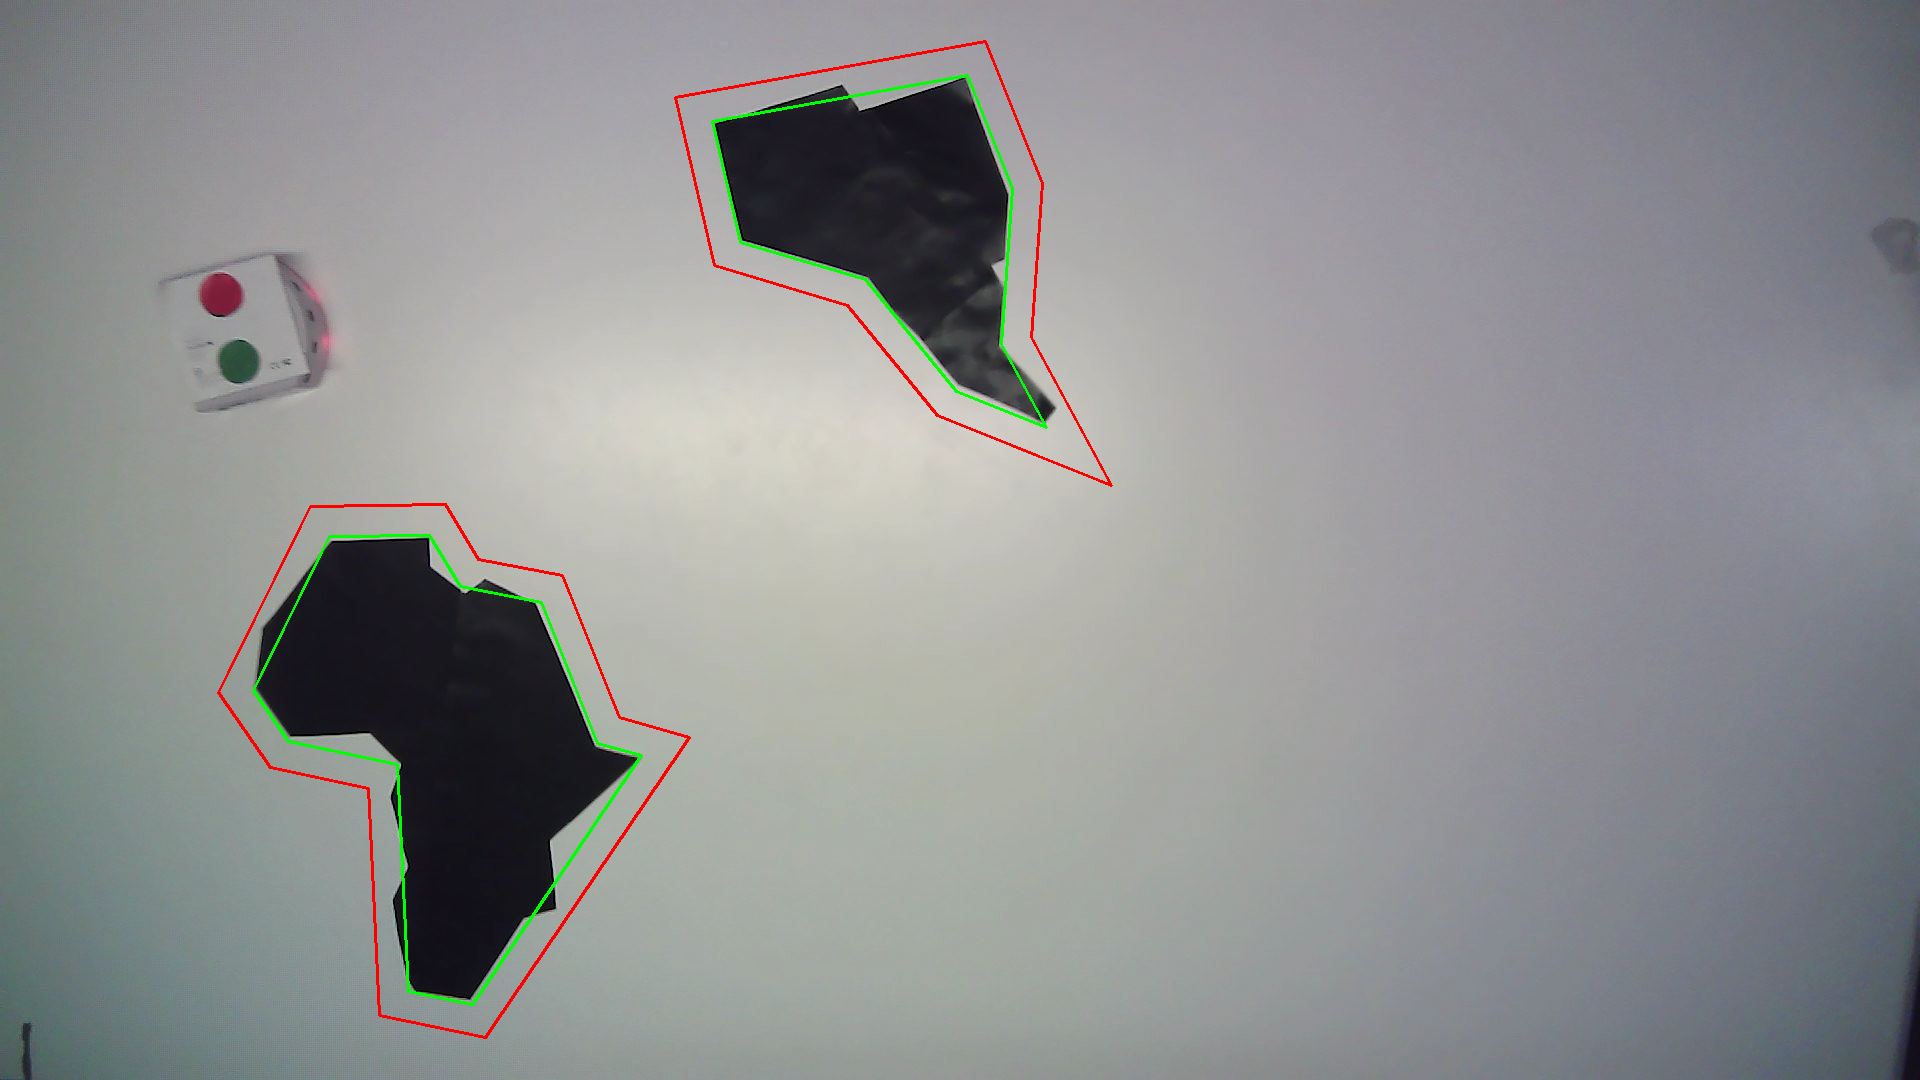
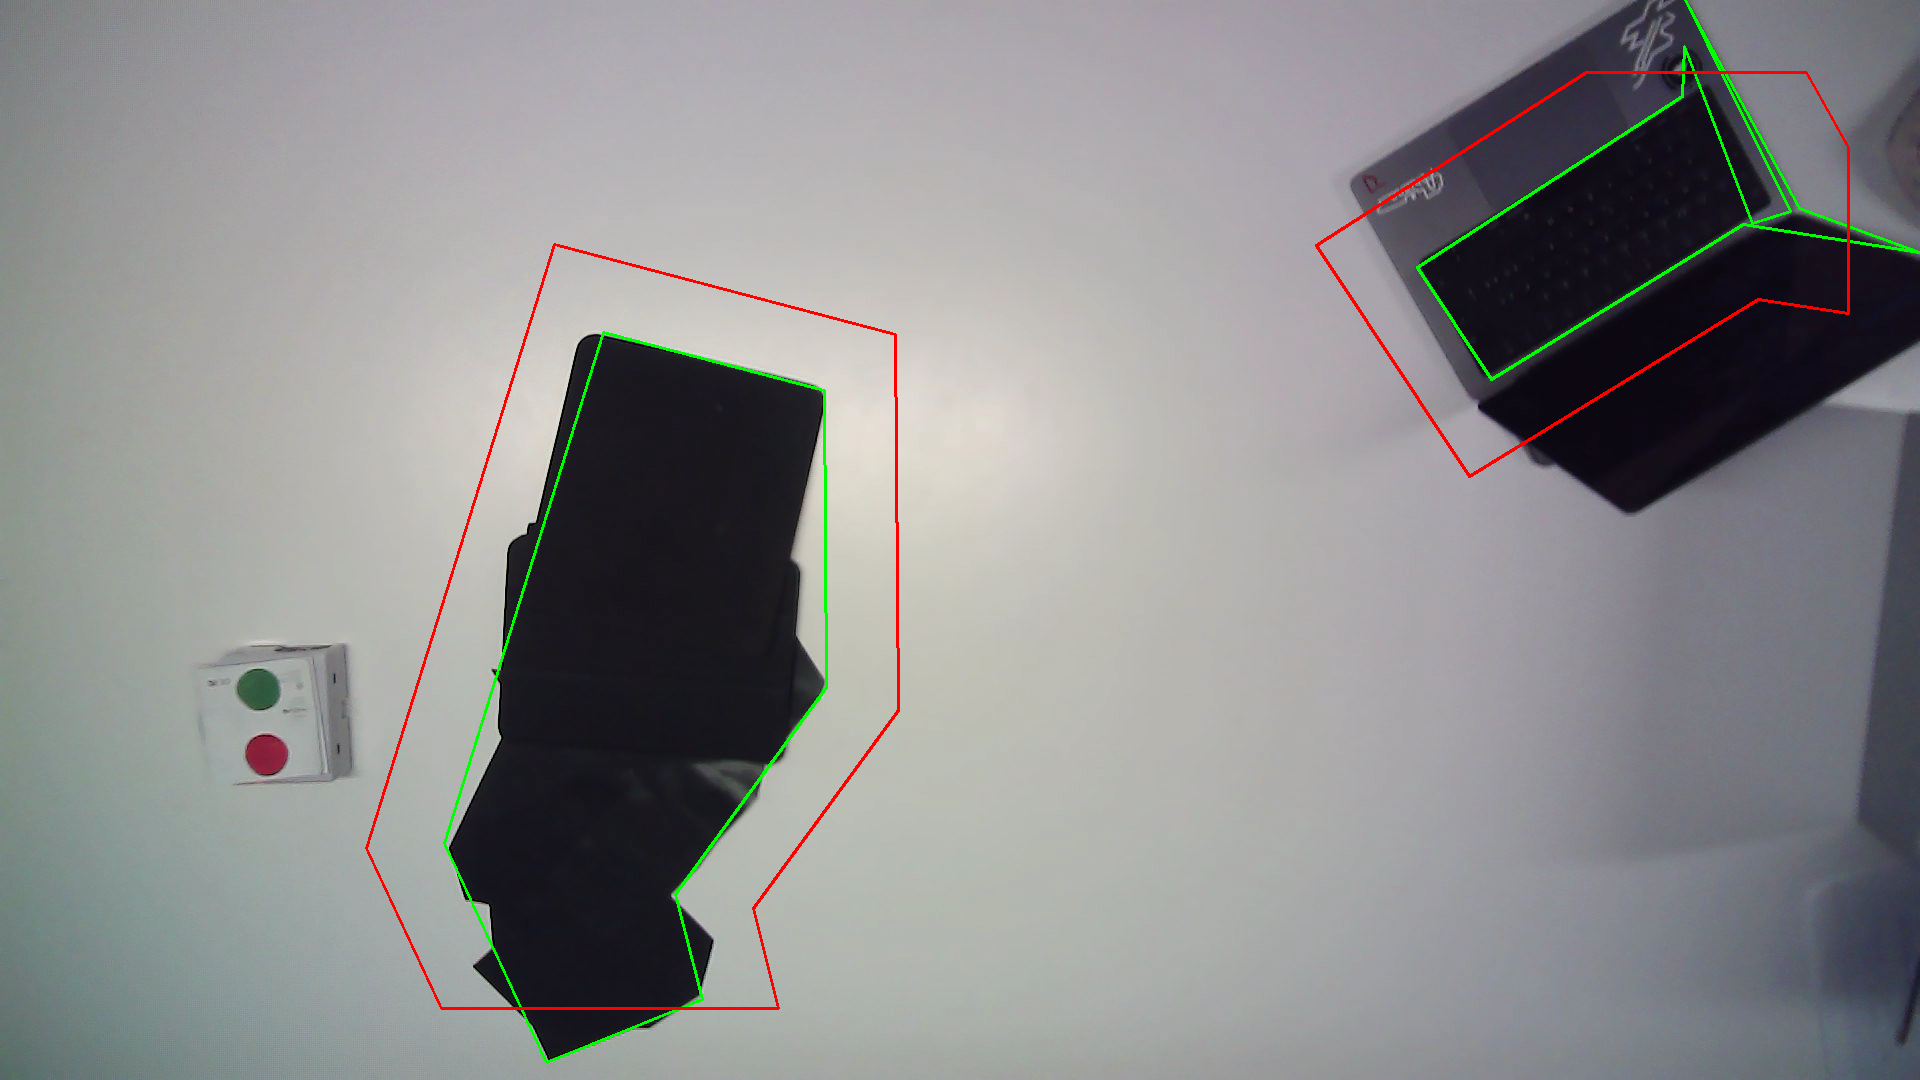
matrix_corrected

diff --git a/src/computer_vision/test_angle.py b/src/computer_vision/test_angle.py
@@ -1,0 +1,86 @@
+import numpy as np
+import matplotlib.pyplot as plt
+import math
+
+def wrap_to_pi(a):
+    return (a + math.pi) % (2*math.pi) - math.pi
+
+def plot_robot_local(x, y, theta, goal):
+    """
+    Repère :
+      - x → droite
+      - y → bas
+      - theta CCW depuis +x
+      - y_forward = devant robot
+      - x_left    = gauche robot
+    """
+
+    xg, yg = goal
+    dx = xg - x
+    dy = yg - y
+
+    # 1) angle global vers le goal
+    angle_goal = math.atan2(dy, dx)
+    print(f"angle_goal (atan2) = {angle_goal:.3f} rad")
+    angle_goal = wrap_to_pi(angle_goal)
+    print(f"wrap_to_pi (atan2) = {angle_goal:.3f} rad")
+
+
+    # 2) erreur angulaire alpha en repère robot
+    y_forward =  math.cos(theta) * dx + math.sin(theta) * dy
+    x_left    = -math.sin(theta) * dx + math.cos(theta) * dy
+    alpha = math.atan2(x_left, y_forward)
+    alpha = wrap_to_pi(alpha)
+
+    fig, ax = plt.subplots()
+    ax.set_aspect("equal")
+    ax.invert_yaxis()  # IMPORTANT : y vers le bas comme ta caméra
+    ax.grid(True)
+
+    # --- Robot ---
+    ax.plot(x, y, "ko")  # robot position
+
+    # --- Flèche theta ---
+    ax.arrow(x, y,
+             40 * math.cos(theta),
+             40 * math.sin(theta),
+             head_width=10, color="blue",
+             length_includes_head=True)
+
+    # --- Flèche direction goal ---
+    ax.arrow(x, y,
+             40 * math.cos(angle_goal),
+             40 * math.sin(angle_goal),
+             head_width=10, color="green",
+             length_includes_head=True)
+
+    # --- Flèche alpha (repère robot) ---
+    norm = max(1e-6, math.hypot(x_left, y_forward))
+    ax.arrow(x, y,
+             40 * (x_left / norm),
+             40 * (y_forward / norm),
+             head_width=10, color="red",
+             length_includes_head=True)
+
+    # --- Goal ---
+    ax.plot(xg, yg, "rx", markersize=12)
+
+    # --- Affichage des valeurs numériques ---
+    text = (
+        f"theta = {theta:.3f} rad\n"
+        f"angle_goal (atan2) = {angle_goal:.3f} rad\n"
+        f"alpha = {alpha:.3f} rad"
+    )
+
+    ax.text(x + 60, y - 60, text,
+            fontsize=12,
+            bbox=dict(facecolor='white', alpha=0.7))
+
+    plt.show()
+
+# Exemple :
+plot_robot_local(
+    x=150, y=200,
+    theta=math.radians(30),
+    goal=(400, 350)
+)

diff --git a/src/computer_vision/vision.py b/src/computer_vision/vision.py
@@ -485,7 +485,7 @@ if __name__ == "__main__":
     Paramètre show_debug pour afficher ou non le retour vision.
     """
     vision = Vision()
-    show_debug = False           # mettre False si un autre module consomme juste les données
+    show_debug = True           # mettre False si un autre module consomme juste les données
     mode_image = False           # False pour webcam
     image_name = "table10.jpg"   # change le nom si nécessaire
 
@@ -515,10 +515,12 @@ if __name__ == "__main__":
                 break
             res = vision.process(frame, show_debug=show_debug)
             if show_debug:
-                _, _, dbg = res
+                polys, st, dbg = res
                 cv2.imshow("RESULT", dbg)
                 if cv2.waitKey(1) & 0xFF in [27, ord('q')]:
                     break
+                print(f"Robot found={st['found']} | centre={st['center']}.  angle={st['theta']} | obstacles={len(polys)}", end="\r")
+
             else:
                 # si pas de debug, tu peux pousser les données ailleurs
                 polys, st = res

diff --git a/src/local_navigation/navigation_control.py b/src/local_navigation/navigation_control.py
@@ -399,16 +399,17 @@ class GoToGoalController:
         rho = math.hypot(dx, dy)
 
         y_forward = math.cos(theta) * dx + math.sin(theta) * dy
-        x_left = -math.sin(theta) * dx + math.cos(theta) * dy
+        x_left = math.sin(theta) * dx - math.cos(theta) * dy
         print("x:",x_left,"y:", y_forward)
         alpha = math.atan2(x_left, y_forward)
-        alpha = wrap_to_pi(alpha)
-
-
         print("alpha", alpha)
+        alpha = wrap_to_pi(alpha)
+        print("wraped alpha", alpha)
+
         alpha_dead = 5.0 * math.pi / 180.0
         if abs(alpha) < alpha_dead:
             alpha = 0.0
+        print("dead_alpha", alpha)
         """           
         alpha_dead = 30.0 * math.pi / 180.0  # ±5°
 
@@ -423,9 +424,10 @@ class GoToGoalController:
 
         v = self.g.Kv * rho
         w = self.g.Komega * alpha
-
+        print("v,w before clamp:", v,"  ",w)
         v = max(-self.g.v_max, min(self.g.v_max, v))
         w = max(-self.g.w_max, min(self.g.w_max, w))
+        print("v,w after clamp:", v,"  ",w)
 
         return v, w, rho, alpha
 
